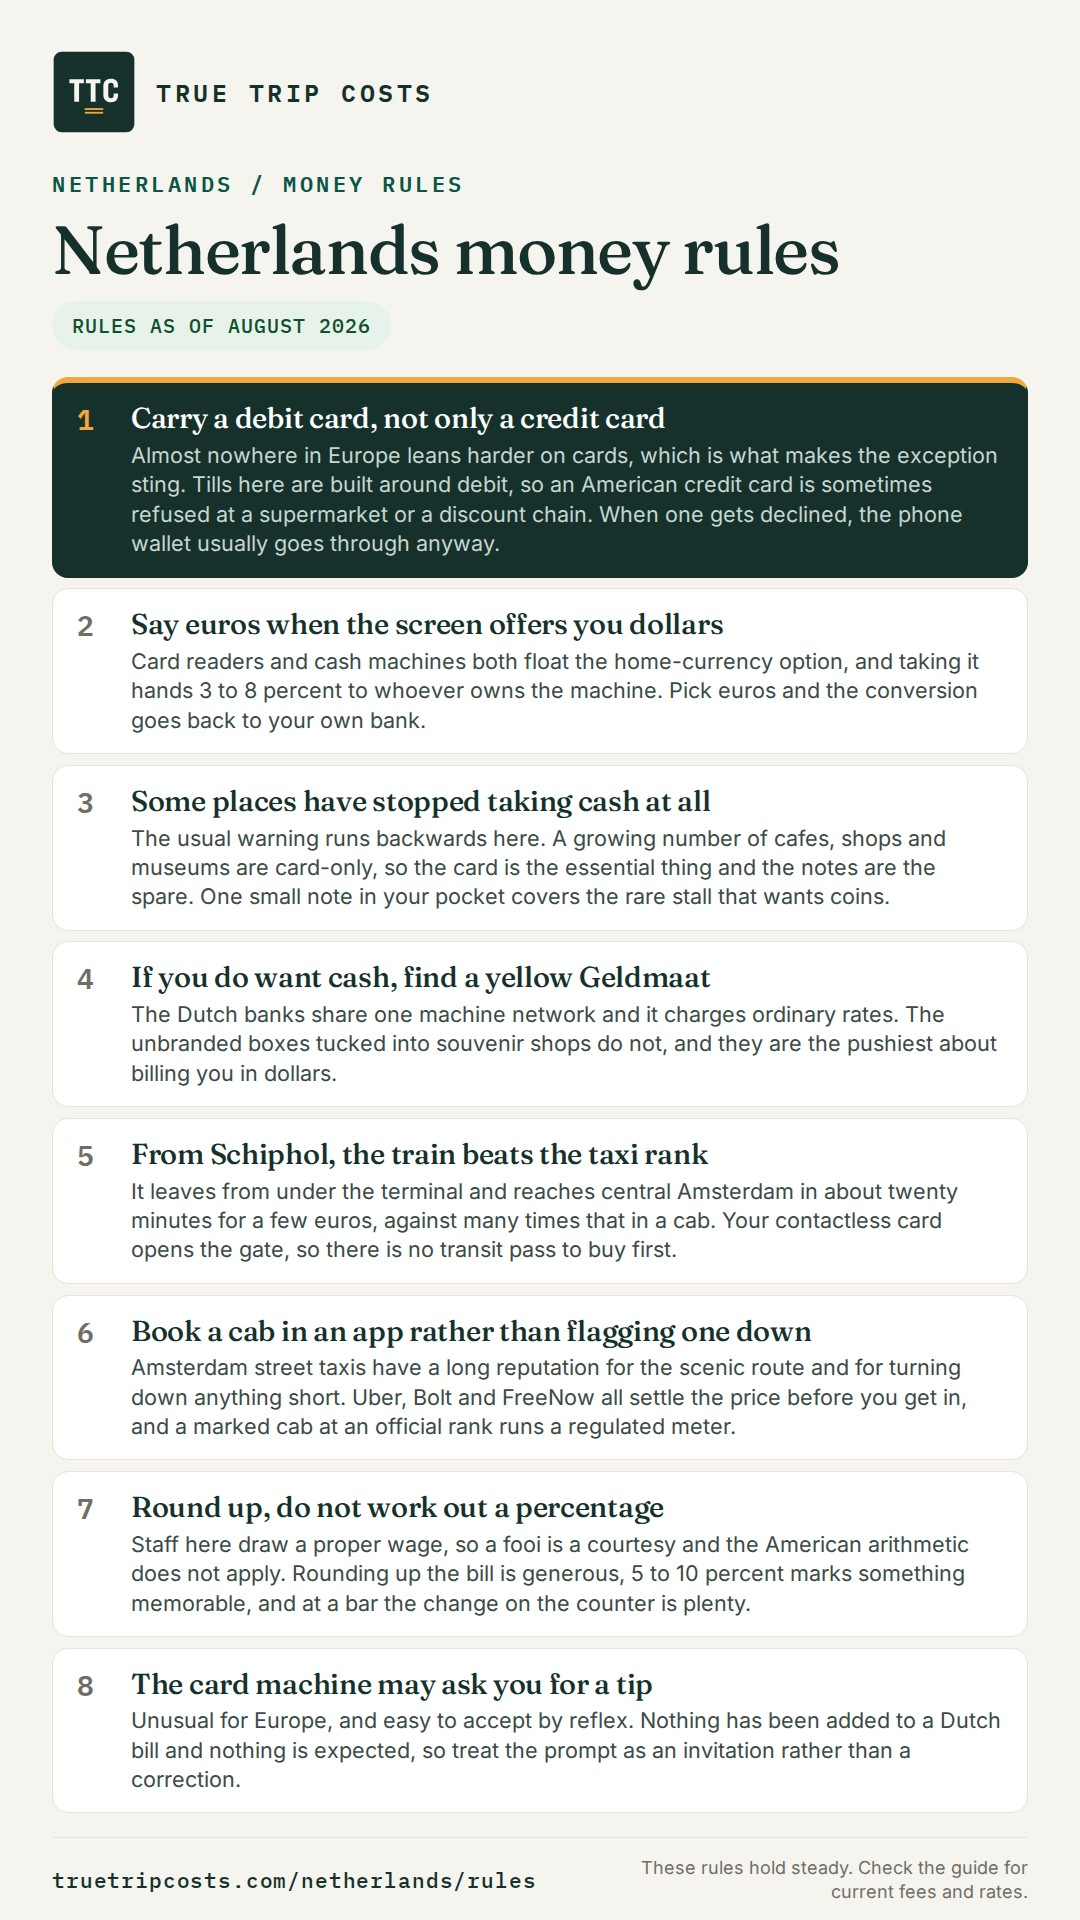
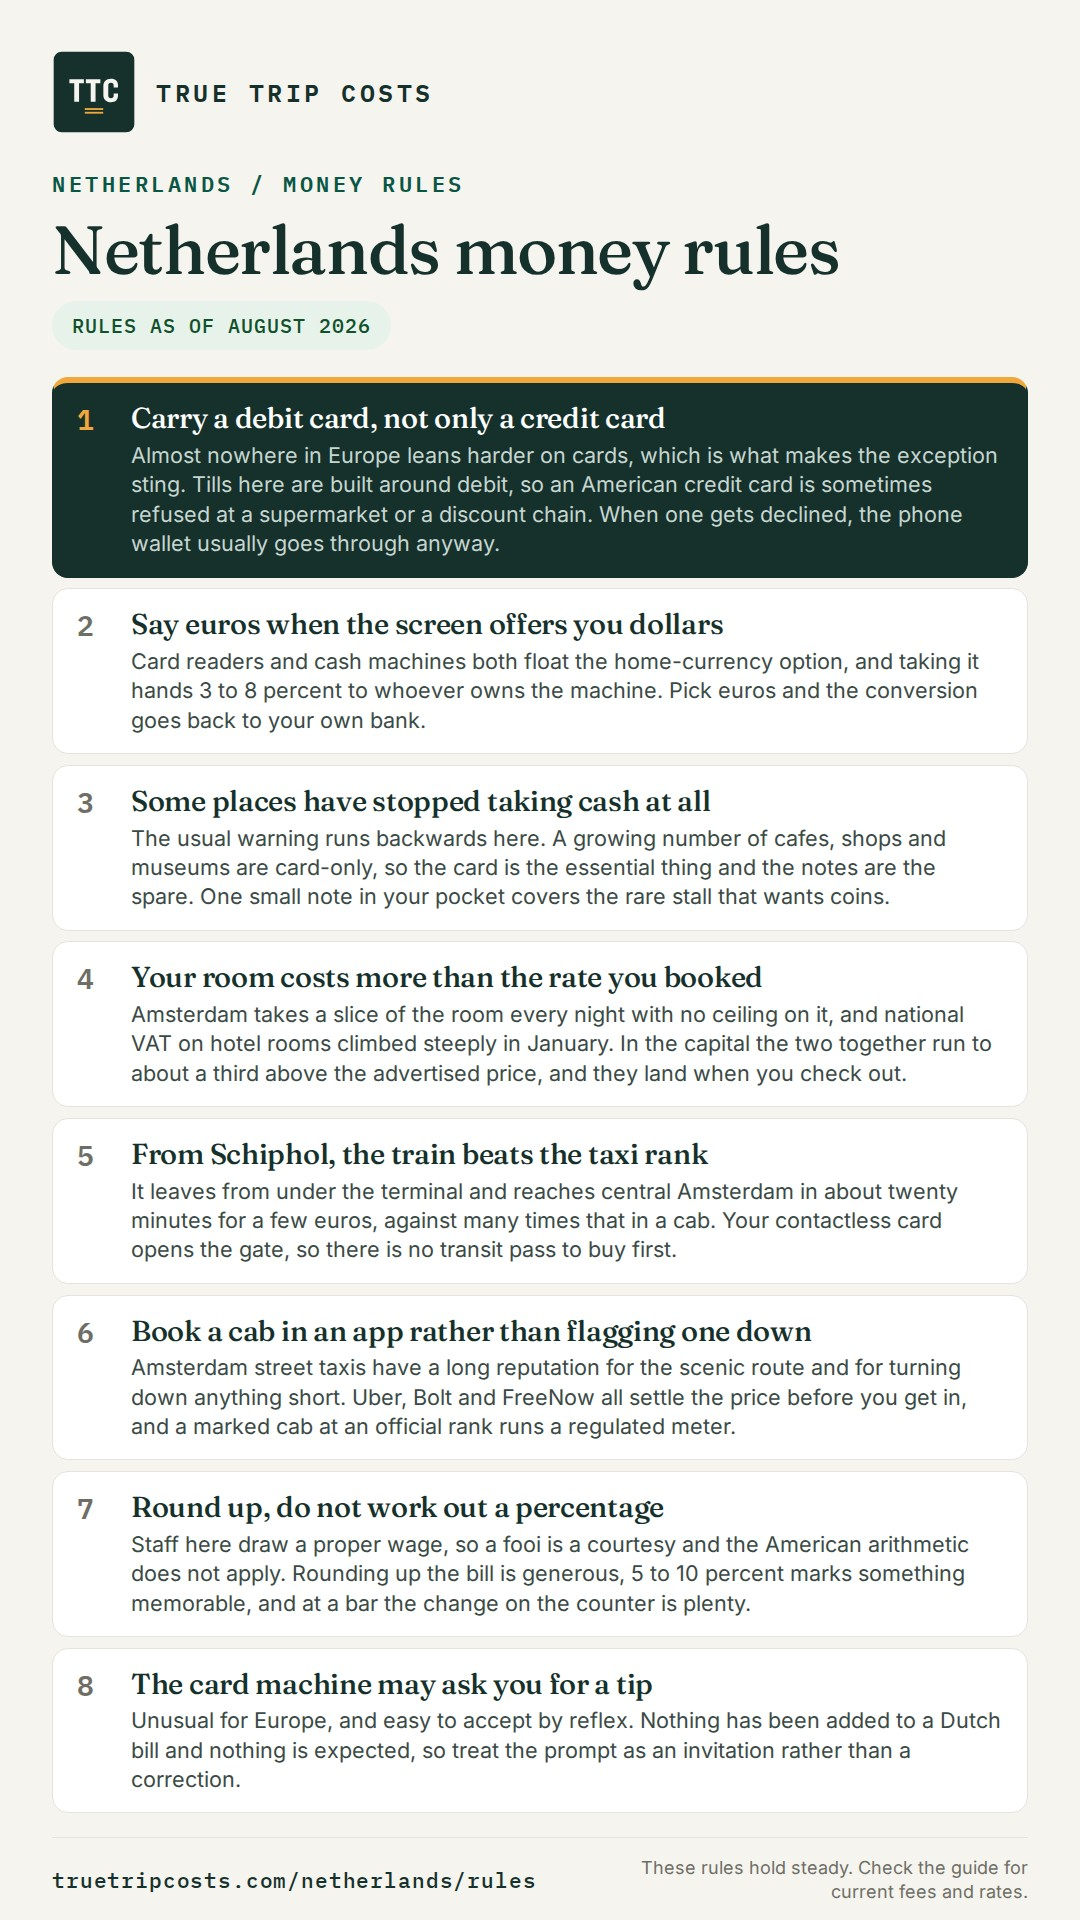
Add tax spokes for the Netherlands, Saudi Arabia and the UAE, and point the cards at them
Three money stories the guides carried in a paragraph with nothing linking to them
properly. Each is now a spoke, and each pocket card now has a rule pointing at it.

netherlands/tourist-tax covers the two separate charges on a Dutch hotel bill:
Amsterdam's 12.5% of the net room rate, uncapped and the steepest proportion in
Europe, and the national VAT on accommodation that moved from 9% to 21% on
1 January 2026. Explains why the percentage model in the capital and the flat
per-person model everywhere else can reverse which option is cheaper, and that
neither charge is refundable.

saudi-arabia/vat-refund covers the scheme ZATCA launched on 18 April 2025. The 15%
rate, the SAR 500 minimum at a single approved retailer, the fact that receipts
from different shops do not pool while three from one shop on one day do, the
90 day unused-export window, and the step that decides the outcome: the form is
raised against your passport at the counter while you pay, so a receipt alone
proves nothing at departures later.

uae/hotel-taxes-and-fees itemises what stacks on a room rate: 5% VAT, a Dubai
municipality fee around 7%, a service charge around 10% belonging to the hotel
rather than the government, and a nightly city charge, either Dubai's flat Tourism
Dirham by star rating or Abu Dhabi's 4% accommodation fee. Commonly 20 to 30% over
the quoted rate, and the VAT on it is not reclaimable.

Every figure comes from what the guides had already verified against government
[…]

Changed region(s): [[0.1222, 0.5, 0.9167, 0.5625]]

diff --git a/src/data/money-rules.js b/src/data/money-rules.js
@@ -872,10 +872,10 @@ export const moneyRules = {
         linkLabel: 'How little cash you need',
       },
       {
-        h: 'If you do want cash, find a yellow Geldmaat',
-        p: 'The Dutch banks share one machine network and it charges ordinary rates. The unbranded boxes tucked into souvenir shops do not, and they are the pushiest about billing you in dollars.',
-        href: '/netherlands/cash-or-card',
-        linkLabel: 'Where to get euros',
+        h: 'Your room costs more than the rate you booked',
+        p: 'Amsterdam takes a slice of the room every night with no ceiling on it, and national VAT on hotel rooms climbed steeply in January. In the capital the two together run to about a third above the advertised price, and they land when you check out.',
+        href: '/netherlands/tourist-tax',
+        linkLabel: 'What a Dutch hotel adds',
       },
       {
         h: 'From Schiphol, the train beats the taxi rank',
@@ -1070,16 +1070,16 @@ export const moneyRules = {
         linkLabel: 'Where to change money',
       },
       {
-        h: 'Do not buy dirhams before you fly',
-        p: 'The currency is thinly traded outside the Gulf, so a bank or bureau at home sells it to you badly. Arrive with dollars, or with nothing, and draw what you need once you are on the ground.',
-        href: '/uae/cash-or-card',
-        linkLabel: 'Getting dirhams',
-      },
-      {
         h: 'Tap for everything, keep a little cash for the souk',
         p: 'Cabs, the metro, malls and restaurants all take a card or a phone without a second thought. What still wants notes is the souk, the small local place, and anything you hand to a person as thanks.',
         href: '/uae/cash-or-card',
         linkLabel: 'How much cash to carry',
+      },
+      {
+        h: 'The room rate is not the room bill',
+        p: 'Tax is genuinely light here, but a municipality fee, a service charge and a nightly city charge all stack on top, commonly a fifth to a third above the figure you were quoted. Ask what the all-in nightly total is before you book.',
+        href: '/uae/hotel-taxes-and-fees',
+        linkLabel: 'What a hotel bill adds',
       },
       {
         h: 'No visa to arrange, but read what gets stamped in',
@@ -1309,9 +1309,15 @@ export const moneyRules = {
         // neighbours carries the point without dating the card.
         lead: true,
         h: 'Budget for the highest VAT in the Gulf',
-        p: 'It lands on almost everything and it runs to several times what the UAE or Oman charge, so a menu or shelf figure is not what you will end up paying. Arriving straight from Qatar, where there is none at all, the jump is jarring. What softens it is that shopping here is reclaimable.',
+        p: 'It lands on almost everything and it runs to several times what the UAE or Oman charge, so a menu or shelf figure is not what you will end up paying. Arriving straight from Qatar, where there is none at all, the jump is jarring.',
         href: '/saudi-arabia/cash-or-card',
         linkLabel: 'What VAT does to prices',
+      },
+      {
+        h: 'The tax comes back, but only if you ask as you pay',
+        p: 'A refund on goods carried home has run since 2025, and it begins at the counter rather than at departures: the form is raised against your passport while the sale is happening. Clear the minimum inside one approved shop, because spending spread over several will not count.',
+        href: '/saudi-arabia/vat-refund',
+        linkLabel: 'Claiming the refund',
       },
       {
         h: 'Cards work almost everywhere, metro gates included',
@@ -1336,12 +1342,6 @@ export const moneyRules = {
         p: 'Running one is against the law and the fine falls on the driver, but the exposure falls on you: no record of the journey and nobody to complain to. The apps and the official ranks are licensed, and priced low enough that the risk buys you nothing.',
         href: '/saudi-arabia/taxis-and-apps',
         linkLabel: 'Licensed cars, and the apps',
-      },
-      {
-        h: 'The visa fee has medical insurance inside it',
-        p: 'That is unusual and worth something real, so read what you have already bought before adding cover you do not need. Apply on the official portal, where approval often comes back within minutes.',
-        href: '/saudi-arabia/visa',
-        linkLabel: 'The eVisa, and what it covers',
       },
       {
         h: 'Two things on the bill, and only one is service',

diff --git a/src/data/uae.js b/src/data/uae.js
@@ -298,10 +298,10 @@ export default {
     topic: "taxes",
     title: "UAE hotel taxes and fees: what lands on the bill",
     description:
-      "A UAE hotel bill stacks 5% VAT, a municipality fee, a service charge and a nightly Tourism Dirham, often 20 to 30% above the room rate. Checked 2026.",
+      "A UAE hotel bill stacks 5% VAT, a municipality charge, a service charge and a nightly Tourism Dirham, often 20 to 30% over the room rate. Checked 2026.",
     h1: "UAE hotel taxes and fees, itemised",
     lede:
-      "Short answer: the UAE taxes lightly and charges hotels heavily. VAT is only 5%, but by the time a municipality fee, a service charge and a nightly city fee are added, a room can settle a fifth to a third above the rate you were quoted.",
+      "Short answer: the UAE taxes lightly and charges hotels heavily. VAT is only 5%, but once the municipality has taken its cut, the hotel has added service, and the city has charged for the night, a room settles a fifth to a third above the rate you were quoted.",
     checked: "Aug 2026",
     checkedISO: "2026-08-11",
     answer:
@@ -361,7 +361,7 @@ export default {
           fig: "About 10%",
           tag: "The hotel's own",
           text:
-            "The service charge belongs to the property, not the government. It is usually mandatory, and it is not the same thing as a tip.",
+            "The service charge belongs to the property rather than the government. It is normally unavoidable, and it is not a gratuity, whatever it looks like on the bill.",
           tone: "amber",
         },
         p: [
